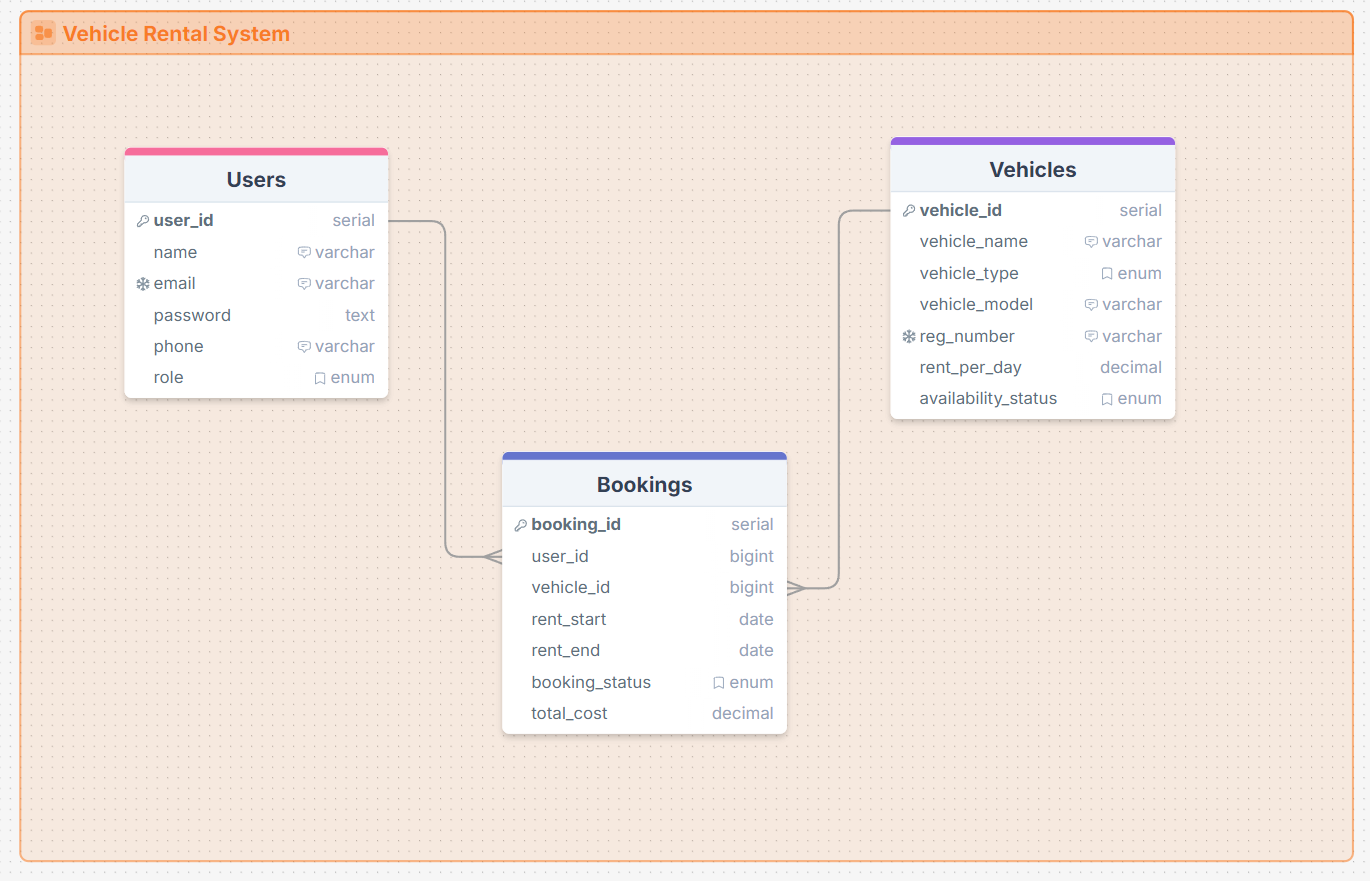
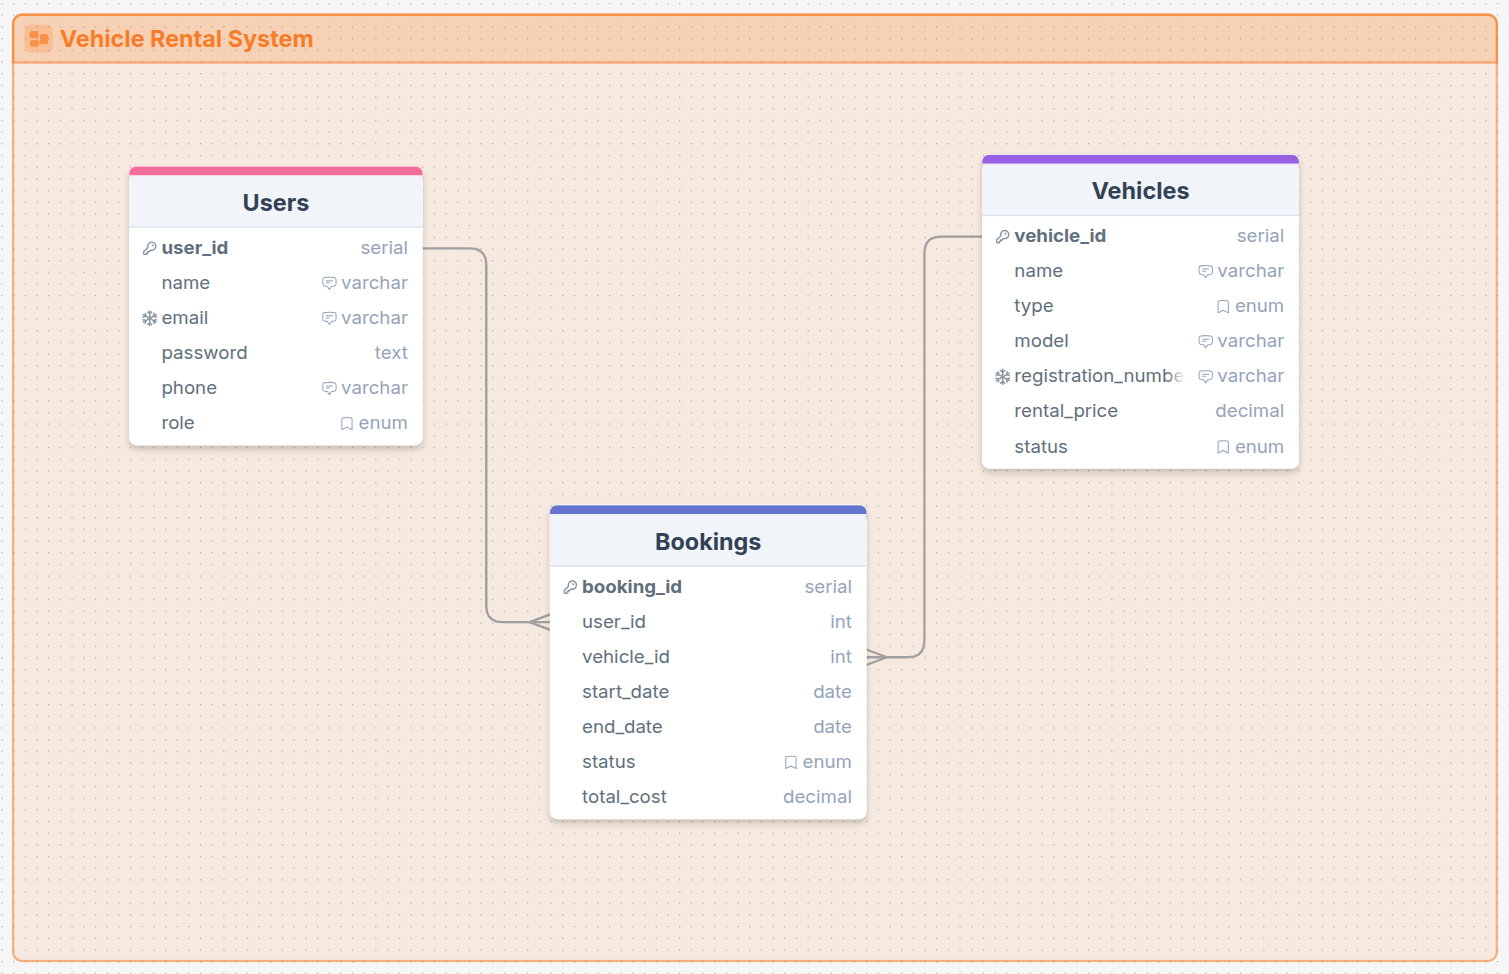
add queries.sql file and update README.md file

Changed region(s): [[0.0, 0.0, 1.0, 1.0], [0.0613, 0.1532, 0.6131, 0.8581], [0.6131, 0.1532, 0.8584, 0.4904]]

diff --git a/README.md b/README.md
@@ -27,7 +27,7 @@ The whole system is built around three main tables that talk to each other:
 
 ![ER Diagram](ERD.png)
 
-**🔗 [View Interactive ERD on DrawSQL](your-drawsql-share-link-here)**
+**🔗 [View Interactive ERD on DrawSQL](https://drawsql.app/teams/nahid-hasan-3/diagrams/vehicle-rental-system)**
 
 ---
 
@@ -44,32 +44,34 @@ This is where all our users live – whether they're customers looking to rent o
 | `name`     | VARCHAR | NOT NULL             | Their full name                           |
 | `email`    | VARCHAR | **UNIQUE**, NOT NULL | Login email (no duplicates allowed!)      |
 | `password` | TEXT    | NOT NULL             | Encrypted password for security           |
-| `phone`    | VARCHAR | -                    | Contact number (optional)                 |
+| `phone`    | VARCHAR | NOT NULL             | Contact number (optional)                 |
 
 ### 2. Vehicles Table
 
 Our garage! This holds everything we know about each vehicle in our fleet.
 
-| Column          | Type    | Constraints                          | What It Does                      |
-| :-------------- | :------ | :----------------------------------- | :-------------------------------- |
-| `vehicle_id`    | SERIAL  | **Primary Key**                      | Unique ID for each vehicle        |
-| `type`          | ENUM    | 'car', 'bike', 'truck'               | What kind of vehicle it is        |
-| `reg_number`    | VARCHAR | **UNIQUE**, NOT NULL                 | License plate (no duplicates)     |
-| `status`        | ENUM    | 'available', 'rented', 'maintenance' | Current availability              |
-| `price_per_day` | DECIMAL | NOT NULL                             | How much it costs to rent per day |
+| Column                | Type    | Constraints                          | What It Does                      |
+| :-------------------- | :------ | :----------------------------------- | :-------------------------------- |
+| `vehicle_id`          | SERIAL  | **Primary Key**                      | Unique ID for each vehicle        |
+| `type`                | ENUM    | 'car', 'bike', 'truck'               | What kind of vehicle it is        |
+| `model`               | ENUM    | NOT NULL                             | What model of vehicle it is       |
+| `registration_number` | VARCHAR | **UNIQUE**, NOT NULL                 | License plate (no duplicates)     |
+| `rental_price`        | DECIMAL | NOT NULL                             | How much it costs to rent per day |
+| `status`              | ENUM    | 'available', 'rented', 'maintenance' | Current availability              |
 
 ### 3. Bookings Table
 
 This is where the magic happens – connecting users with vehicles for specific time periods.
 
-| Column       | Type   | Constraints                         | What It Does                          |
-| :----------- | :----- | :---------------------------------- | :------------------------------------ |
-| `booking_id` | SERIAL | **Primary Key**                     | Unique ID for each booking            |
-| `user_id`    | INT    | **Foreign Key**                     | Links to the Users table              |
-| `vehicle_id` | INT    | **Foreign Key**                     | Links to the Vehicles table           |
-| `start_date` | DATE   | NOT NULL                            | When the rental begins                |
-| `end_date`   | DATE   | **CHECK (> start_date)**            | When it ends (must be after start!)   |
-| `status`     | ENUM   | 'pending', 'confirmed', 'completed' | Where the booking is in its lifecycle |
+| Column       | Type    | Constraints                                      | What It Does                             |
+| :----------- | :------ | :----------------------------------------------- | :--------------------------------------- |
+| `booking_id` | SERIAL  | **Primary Key**                                  | Unique ID for each booking               |
+| `user_id`    | INT     | **Foreign Key**                                  | Links to the Users table                 |
+| `vehicle_id` | INT     | **Foreign Key**                                  | Links to the Vehicles table              |
+| `start_date` | DATE    | NOT NULL                                         | When the rental begins                   |
+| `end_date`   | DATE    | **CHECK (> start_date)**                         | When it ends (must be after start!)      |
+| `status`     | ENUM    | 'pending', 'confirmed', 'completed', 'cancelled' | Where the booking is in its lifecycle    |
+| `total_cost` | DECIMAL | NOT NULL                                         | How much the total costs to this booking |
 
 ---
 
@@ -82,71 +84,6 @@ I didn't just throw tables together – there's actual business logic baked in:
 2.  **Date Validation:** There's a CHECK constraint that makes sure your rental end date comes after your start date. Because yeah, time travel isn't a thing yet.
 
 3.  **Data Integrity:** Foreign keys mean you can't create a booking for a user or vehicle that doesn't exist. And unique constraints on emails and registration numbers prevent duplicates.
-
----
-
-## 📝 The SQL Queries That Actually Do Stuff
-
-I wrote several queries to answer real business questions. Here's what they do:
-
-### Query 1: JOIN
-
-**Retrieve booking information along with customer name and vehicle name.**
-
-This pulls together booking info with customer names and vehicle details – super useful for reports.
-
-**Concepts used:** INNER JOIN
-
-```sql
-SELECT b.booking_id, u.name AS customer_name, v.name AS vehicle_name
-FROM Bookings b
-INNER JOIN Users u ON b.user_id = u.user_id
-INNER JOIN Vehicles v ON b.vehicle_id = v.vehicle_id;
-```
-
-### Query 2: EXISTS
-
-**Find all vehicles that have never been booked.**
-
-Identifies vehicles that have never been booked. Might be time to check if something's wrong with them!
-
-**Concepts used:** NOT EXISTS
-
-```sql
-SELECT * FROM Vehicles v
-WHERE NOT EXISTS (
-    SELECT 1 FROM Bookings b WHERE b.vehicle_id = v.vehicle_id
-);
-```
-
-### Query 3: WHERE
-
-**Retrieve all available vehicles of a specific type (e.g., cars).**
-
-Want to see what cars are ready to rent right now? This query's got you covered.
-
-**Concepts used:** SELECT, WHERE
-
-```sql
-SELECT * FROM Vehicles
-WHERE type = 'car' AND status = 'available';
-```
-
-### Query 4: GROUP BY and HAVING
-
-**Find the total number of bookings for each vehicle and display only those vehicles that have more than 2 bookings.**
-
-Shows which vehicles are the crowd favorites – booked more than twice.
-
-**Concepts used:** GROUP BY, HAVING, COUNT
-
-```sql
-SELECT v.name, COUNT(b.booking_id) AS total_bookings
-FROM Vehicles v
-INNER JOIN Bookings b ON v.vehicle_id = b.vehicle_id
-GROUP BY v.vehicle_id, v.name
-HAVING COUNT(b.booking_id) > 2;
-```
 
 ---
 
